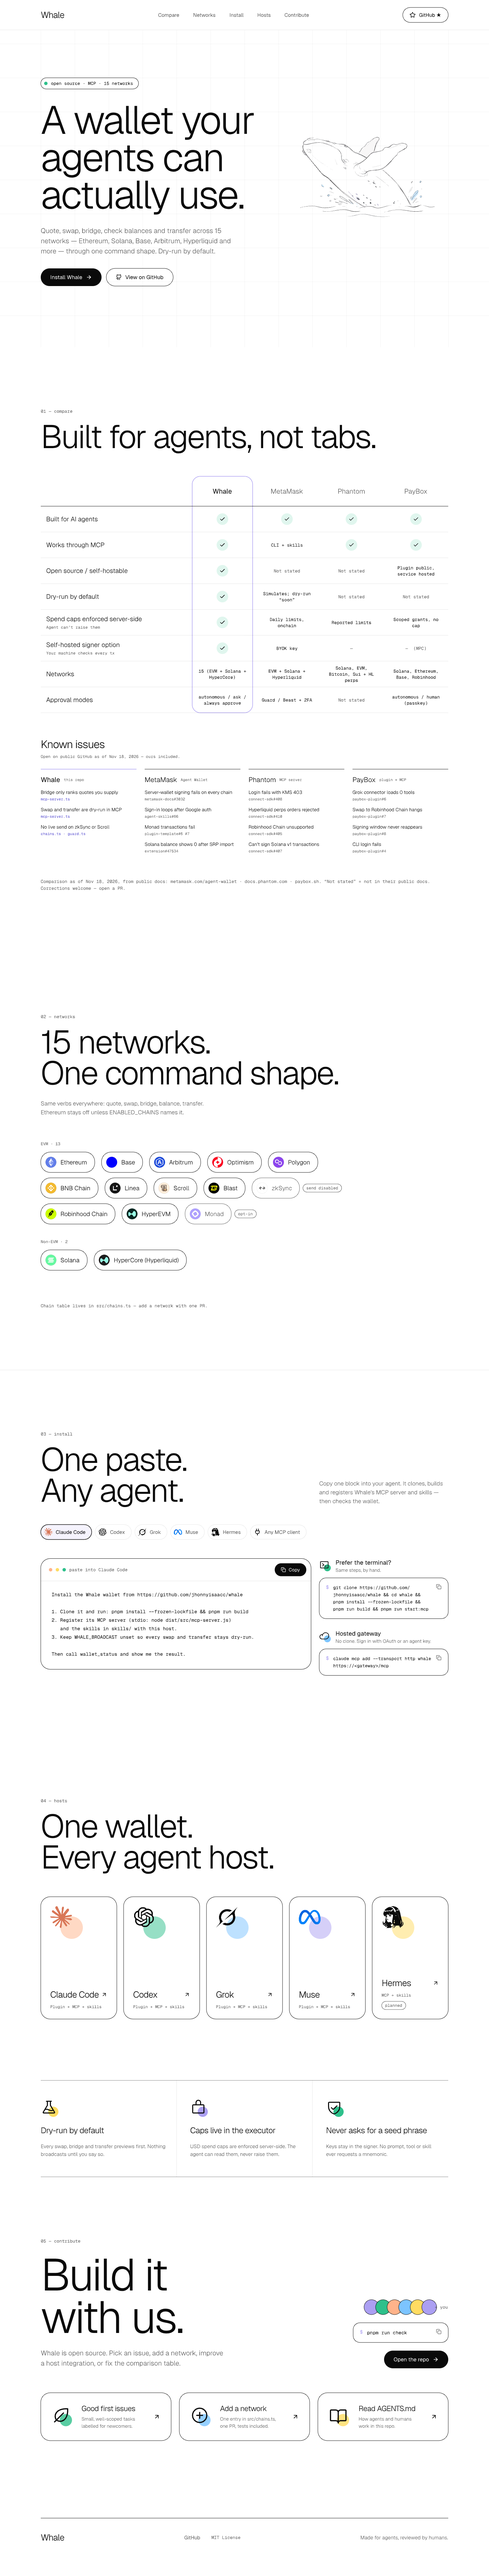
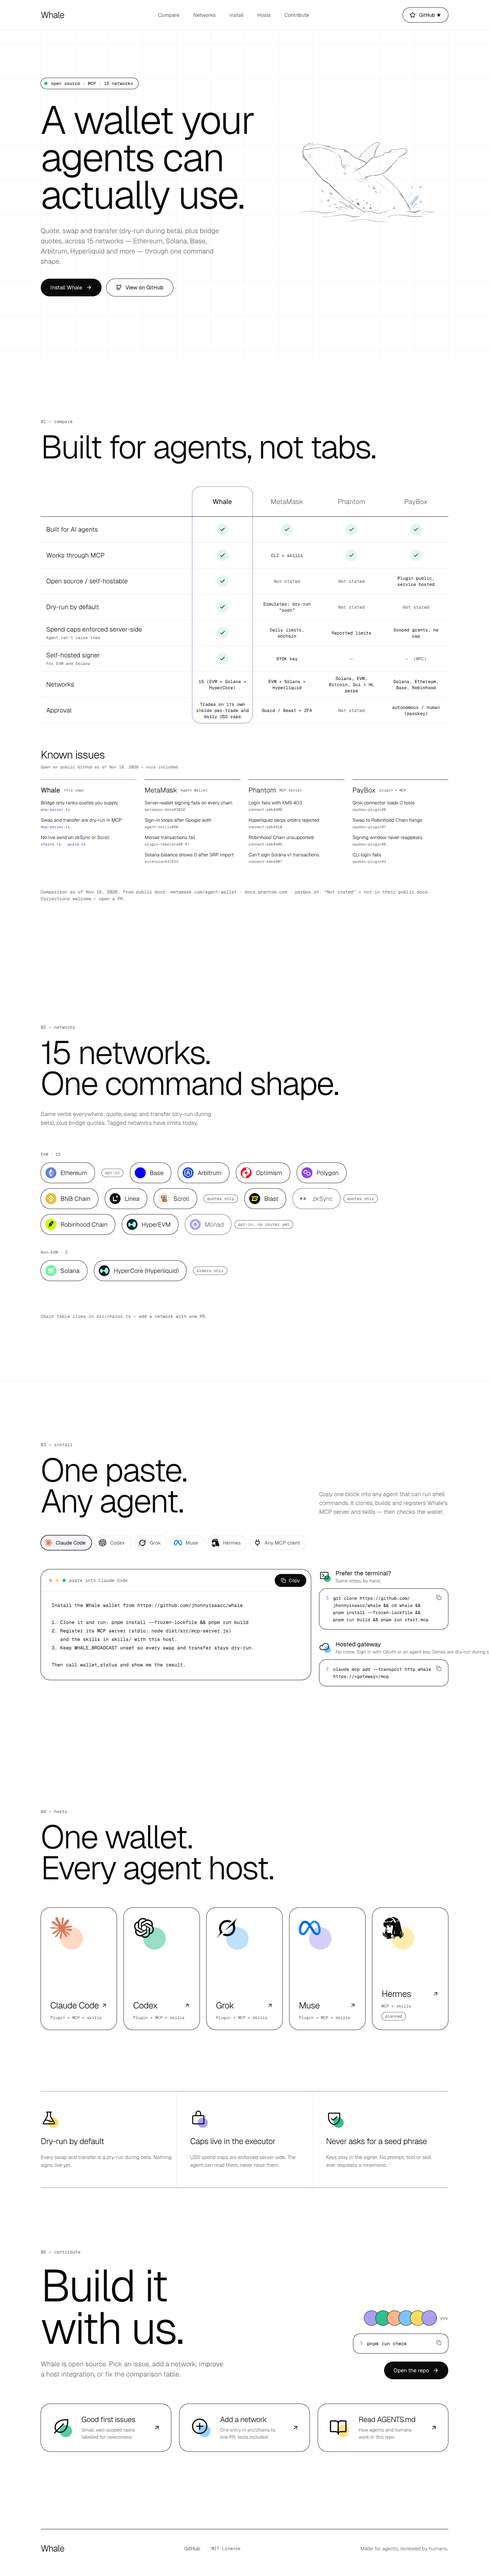
docs(design): make the landing copy claim only what the code backs
Labels swap and transfer as dry-run during beta, says bridge quotes,
tags the networks with limits (Ethereum and Monad opt-in, zkSync and
Scroll quotes only, HyperCore orders only), replaces the approval modes
with the USD caps, limits the signer claim to EVM and Solana, and says
the install block needs an agent that can run shell commands.

diff --git a/design/README.md b/design/README.md
@@ -41,20 +41,20 @@ The competitor cells and the Known issues block come from public docs and public
 
 The Known issues block lists Whale's own gaps first.
 
-## Claims the code does not back yet
+## Copy claims only what the code backs
 
-The site copy is the target. As of this commit the repo differs as follows.
+Each claim was checked against `origin/main` on 2026-11-18.
 
-| Site says | Repo today |
-| --- | --- |
-| Quote, swap, bridge, balance, transfer | `bridge` ranks quotes the caller supplies. It fetches nothing and executes nothing. The CLI refuses `bridge`. |
-| Swap and transfer | The MCP `swap` and `transfer` tools are dry-run only. Live transfer is skipped because local signing is not wired. |
-| 15 networks | Ethereum and Monad are off until `ENABLED_CHAINS` names them, and Monad ships no router. zkSync and Scroll have no live send (`src/config/guard.ts`). HyperCore signs orders only. |
-| Approval modes: autonomous / ask / always approve | The modes are `autonomous`, `iframe` and `always_approve`. The MCP server does not call `approvalGate`. |
-| Hosted gateway | Hosted sends stay dry-run until hosted live opens. |
-| Self-hosted signer | `whale-signer` signs EVM and Solana, not HyperCore. It is not connected to the MCP transfer path. |
-| Hermes host | No Hermes manifest yet. The design marks it "planned". |
-| Open source, MIT | The manifests say MIT. The repo has no `LICENSE` file. |
+| Topic | Site copy | Why |
+| --- | --- | --- |
+| Verbs | "Quote, swap and transfer (dry-run during beta), plus bridge quotes" | `bridge` ranks quotes the caller supplies. The CLI refuses it. |
+| Swap and transfer | Labelled dry-run | Nothing signs live yet, in the local MCP or the hosted path. |
+| Networks | "15 networks", with a badge on each limited chain | Ethereum: opt-in. Monad: opt-in, no router yet. zkSync: quotes only. Scroll: quotes only (`src/config/guard.ts:94`). HyperCore: orders only. |
+| Approval | "Trades on its own inside per-trade and daily USD caps" | The approval-mode module is unused, and #95 removes it. Add "You can require approval above an amount you choose" once #88 merges. |
+| Hosted gateway | "Sends are dry-run during beta" | Hosted live is not open. |
+| Signer | "Self-hosted signer, for EVM and Solana" | `whale-signer` does not sign HyperCore, and it is not wired to the MCP send path. |
+| Install | "Copy one block into any agent that can run shell commands" | The block runs `git clone` and `pnpm`. Hermes stays "planned" because it has no manifest. |
+| License | "MIT License" | #94 adds the `LICENSE` file. Ship the site after #94 merges. |
 
 ## Logo sources
 
